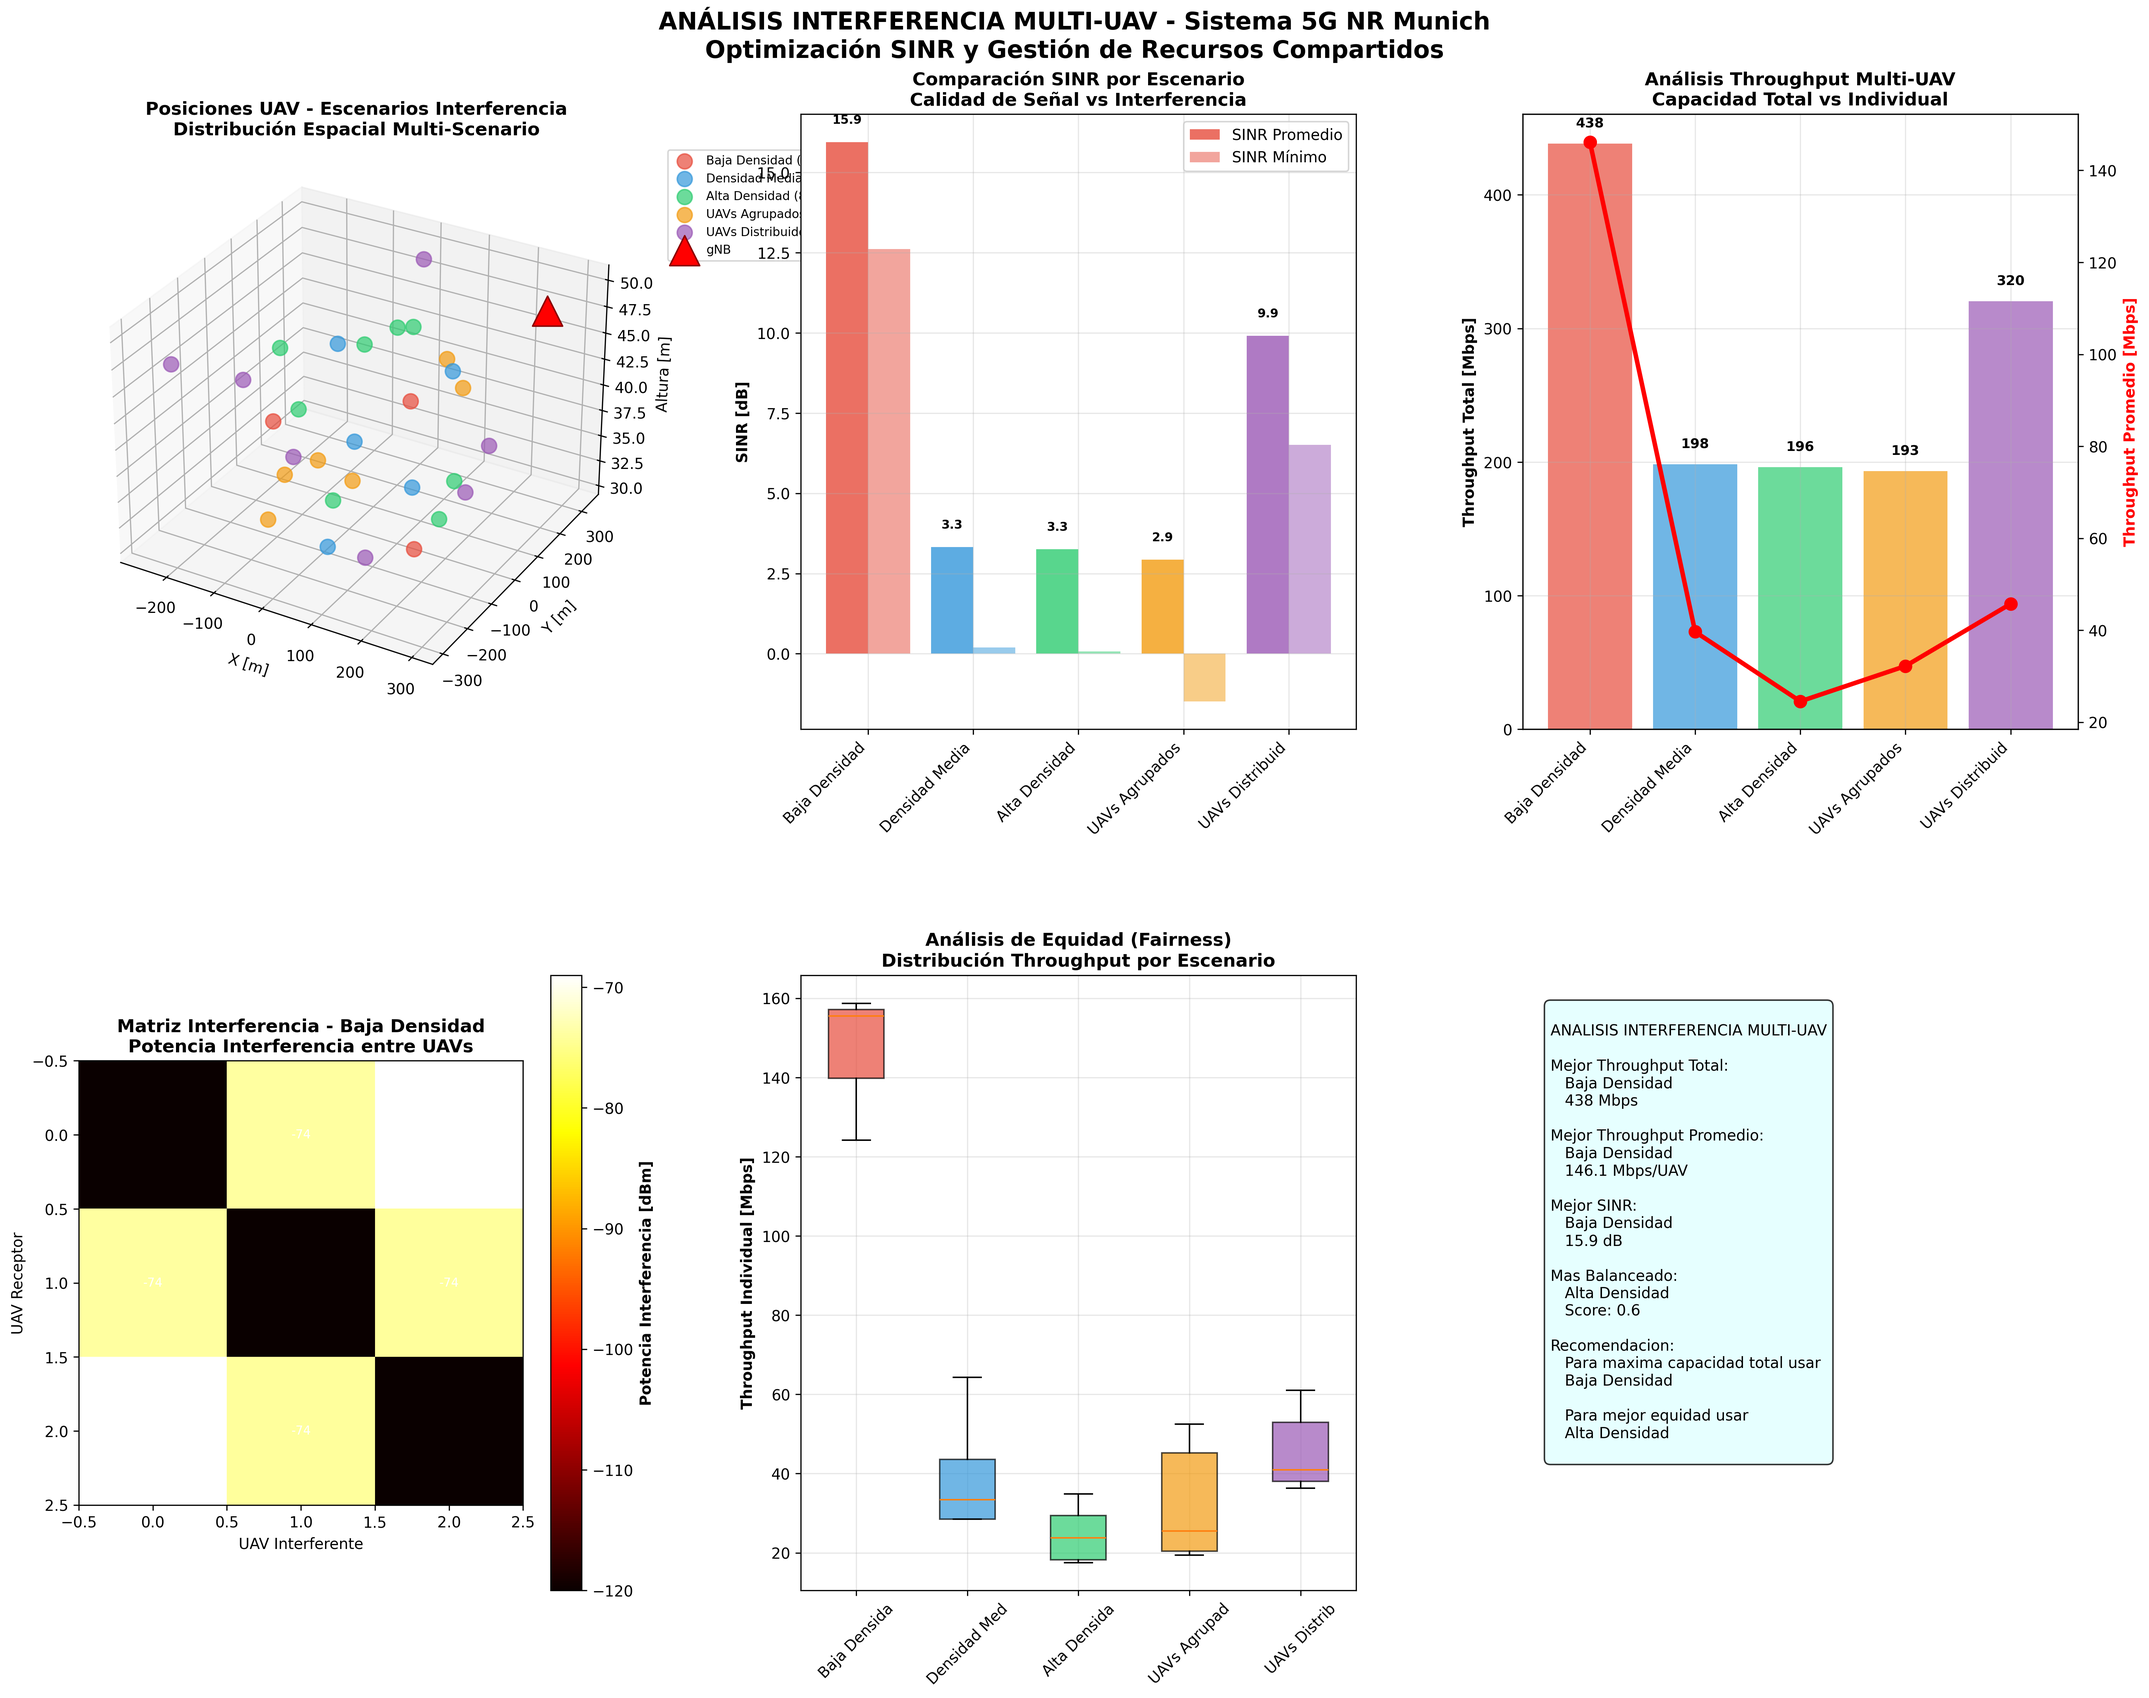
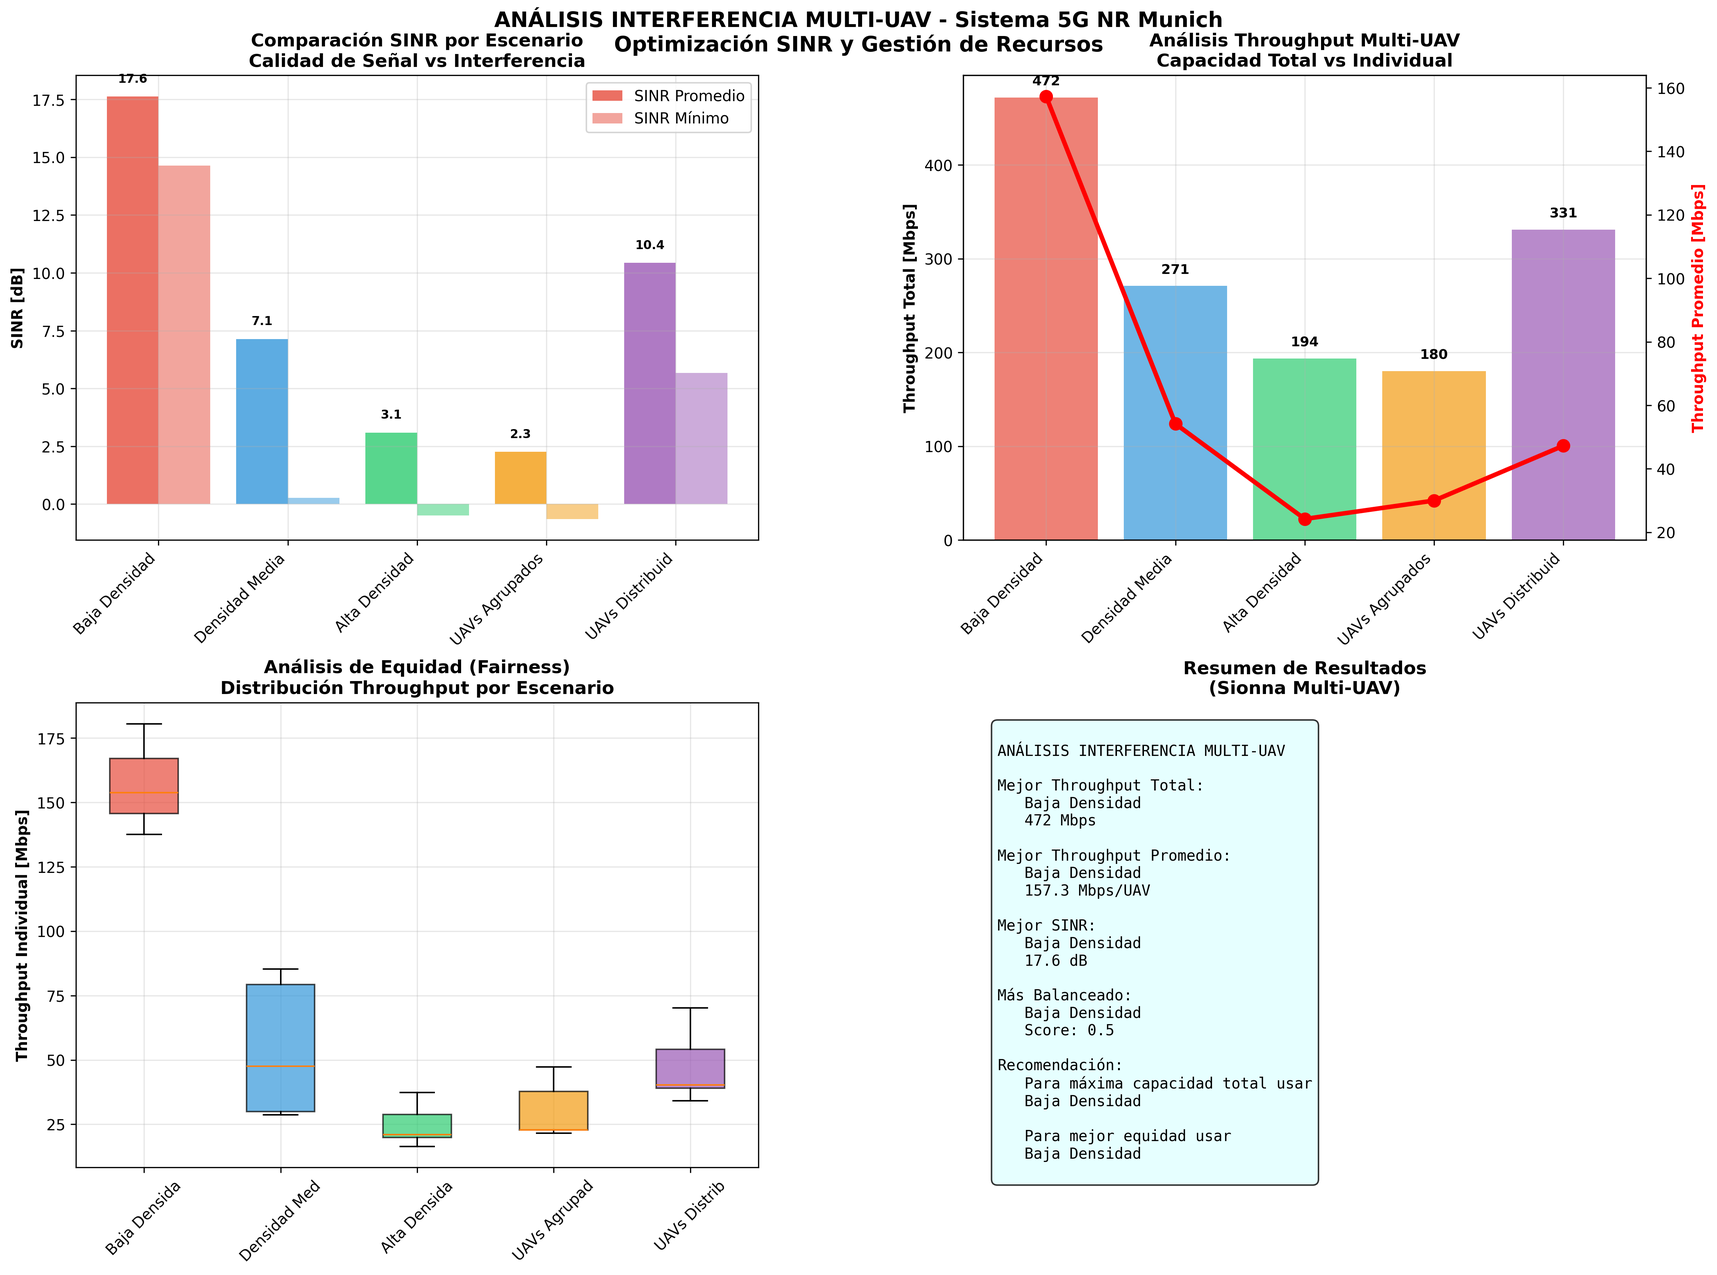
✅ Interferencia: Restaura gráfico 3D de posiciones UAV - 5 gráficos sin heatmap de matriz

diff --git a/final/GUI/analysis/interference_analysis_gui.py b/final/GUI/analysis/interference_analysis_gui.py
@@ -338,62 +338,86 @@ class InterferenceAnalysisGUI:
         if progress_callback:
             progress_callback("Generando gráficos de interferencia...")
         
-        # Create comprehensive interference analysis plot (2x2 layout, sin heatmap)
-        fig = plt.figure(figsize=(16, 12))
+        # Create comprehensive interference analysis plot (2x3 layout, sin heatmap)
+        fig = plt.figure(figsize=(18, 12))
         
         # Colors for scenarios
         colors = ['#E74C3C', '#3498DB', '#2ECC71', '#F39C12', '#9B59B6']
         
-        # 1. SINR Comparison
-        ax1 = fig.add_subplot(2, 2, 1)
+        # 1. UAV Positions for Different Scenarios (3D)
+        ax1 = fig.add_subplot(2, 3, 1, projection='3d')
+        
+        for i, (scenario_key, result) in enumerate(results.items()):
+            positions = result['results']['uav_positions']
+            color = colors[i % len(colors)]
+            
+            # Plot UAV positions
+            ax1.scatter(positions[:, 0], positions[:, 1], positions[:, 2],
+                       c=color, s=100, alpha=0.7, 
+                       label=f"{result['name']} ({len(positions)} UAVs)")
+        
+        # gNB position
+        gnb_pos = self.munich_config['gnb_position']
+        ax1.scatter(*gnb_pos, s=400, c='red', marker='^', 
+                   label='gNB', alpha=1.0, edgecolors='darkred')
+        
+        ax1.set_xlabel('X [m]')
+        ax1.set_ylabel('Y [m]')
+        ax1.set_zlabel('Altura [m]')
+        ax1.set_title('Posiciones UAV - Escenarios Interferencia\nDistribución Espacial Multi-Scenario', fontweight='bold')
+        ax1.legend(bbox_to_anchor=(1.05, 1), loc='upper left', fontsize=8)
+        ax1.grid(True, alpha=0.3)
+        
+        # 2. SINR Comparison
+        ax2 = fig.add_subplot(2, 3, 2)
         scenario_names = [result['name'][:15] for result in results.values()]
         avg_sinrs = [result['results']['avg_sinr_db'] for result in results.values()]
         min_sinrs = [result['results']['min_sinr_db'] for result in results.values()]
         
         x_pos = np.arange(len(scenario_names))
-        bars1 = ax1.bar(x_pos - 0.2, avg_sinrs, 0.4, label='SINR Promedio', 
+        bars1 = ax2.bar(x_pos - 0.2, avg_sinrs, 0.4, label='SINR Promedio', 
                        color=colors[:len(scenario_names)], alpha=0.8)
-        bars2 = ax1.bar(x_pos + 0.2, min_sinrs, 0.4, label='SINR Mínimo', 
+        bars2 = ax2.bar(x_pos + 0.2, min_sinrs, 0.4, label='SINR Mínimo', 
                        color=colors[:len(scenario_names)], alpha=0.5)
         
-        ax1.set_ylabel('SINR [dB]', fontweight='bold')
-        ax1.set_title('Comparación SINR por Escenario\nCalidad de Señal vs Interferencia', fontweight='bold')
-        ax1.set_xticks(x_pos)
-        ax1.set_xticklabels(scenario_names, rotation=45, ha='right')
-        ax1.legend()
-        ax1.grid(True, alpha=0.3)
-        
-        # Add value labels
-        for i, (bar1, bar2, avg_val, min_val) in enumerate(zip(bars1, bars2, avg_sinrs, min_sinrs)):
-            ax1.text(bar1.get_x() + bar1.get_width()/2., bar1.get_height() + 0.5,
-                    f'{avg_val:.1f}', ha='center', va='bottom', fontsize=8, fontweight='bold')
-        
-        # 2. Throughput Analysis
-        ax2 = fig.add_subplot(2, 2, 2)
-        total_throughputs = [result['results']['total_throughput'] for result in results.values()]
-        avg_throughputs = [result['results']['avg_throughput'] for result in results.values()]
-        
-        bars3 = ax2.bar(x_pos, total_throughputs, color=colors[:len(scenario_names)], alpha=0.7)
-        
-        # Secondary axis for average
-        ax2_twin = ax2.twinx()
-        line = ax2_twin.plot(x_pos, avg_throughputs, 'ro-', linewidth=3, markersize=8, 
-                            label='Throughput Promedio por UAV')
-        
-        ax2.set_ylabel('Throughput Total [Mbps]', fontweight='bold')
-        ax2_twin.set_ylabel('Throughput Promedio [Mbps]', fontweight='bold', color='red')
-        ax2.set_title('Análisis Throughput Multi-UAV\nCapacidad Total vs Individual', fontweight='bold')
+        ax2.set_ylabel('SINR [dB]', fontweight='bold')
+        ax2.set_title('Comparación SINR por Escenario\nCalidad de Señal vs Interferencia', fontweight='bold')
         ax2.set_xticks(x_pos)
         ax2.set_xticklabels(scenario_names, rotation=45, ha='right')
+        ax2.legend()
         ax2.grid(True, alpha=0.3)
         
         # Add value labels
+        for i, (bar1, bar2, avg_val, min_val) in enumerate(zip(bars1, bars2, avg_sinrs, min_sinrs)):
+            ax2.text(bar1.get_x() + bar1.get_width()/2., bar1.get_height() + 0.5,
+                    f'{avg_val:.1f}', ha='center', va='bottom', fontsize=8, fontweight='bold')
+        
+        # 3. Throughput Analysis
+        ax3 = fig.add_subplot(2, 3, 3)
+        total_throughputs = [result['results']['total_throughput'] for result in results.values()]
+        avg_throughputs = [result['results']['avg_throughput'] for result in results.values()]
+        
+        bars3 = ax3.bar(x_pos, total_throughputs, color=colors[:len(scenario_names)], alpha=0.7)
+        
+        # Secondary axis for average
+        ax3_twin = ax3.twinx()
+        line = ax3_twin.plot(x_pos, avg_throughputs, 'ro-', linewidth=3, markersize=8, 
+                            label='Throughput Promedio por UAV')
+        
+        ax3.set_ylabel('Throughput Total [Mbps]', fontweight='bold')
+        ax3_twin.set_ylabel('Throughput Promedio [Mbps]', fontweight='bold', color='red')
+        ax3.set_title('Análisis Throughput Multi-UAV\nCapacidad Total vs Individual', fontweight='bold')
+        ax3.set_xticks(x_pos)
+        ax3.set_xticklabels(scenario_names, rotation=45, ha='right')
+        ax3.grid(True, alpha=0.3)
+        
+        # Add value labels
         for i, (bar, total_val, avg_val) in enumerate(zip(bars3, total_throughputs, avg_throughputs)):
-            ax2.text(bar.get_x() + bar.get_width()/2., bar.get_height() + 10,
+            ax3.text(bar.get_x() + bar.get_width()/2., bar.get_height() + 10,
                     f'{total_val:.0f}', ha='center', va='bottom', fontsize=9, fontweight='bold')
         
-        # 3. Throughput Fairness Analysis
-        ax3 = fig.add_subplot(2, 2, 3)
+        # 4. Throughput Fairness Analysis
+        ax4 = fig.add_subplot(2, 3, 4)
         
         fairness_data = []
         scenario_labels = []
@@ -404,21 +428,21 @@ class InterferenceAnalysisGUI:
             scenario_labels.append(result['name'][:12])
         
         # Box plot for fairness
-        bp = ax3.boxplot(fairness_data, labels=scenario_labels, patch_artist=True)
+        bp = ax4.boxplot(fairness_data, labels=scenario_labels, patch_artist=True)
         
         # Color the boxes
         for patch, color in zip(bp['boxes'], colors[:len(scenario_labels)]):
             patch.set_facecolor(color)
             patch.set_alpha(0.7)
         
-        ax3.set_ylabel('Throughput Individual [Mbps]', fontweight='bold')
-        ax3.set_title('Análisis de Equidad (Fairness)\nDistribución Throughput por Escenario', fontweight='bold')
-        ax3.tick_params(axis='x', rotation=45)
-        ax3.grid(True, alpha=0.3)
+        ax4.set_ylabel('Throughput Individual [Mbps]', fontweight='bold')
+        ax4.set_title('Análisis de Equidad (Fairness)\nDistribución Throughput por Escenario', fontweight='bold')
+        ax4.tick_params(axis='x', rotation=45)
+        ax4.grid(True, alpha=0.3)
         
-        # 4. Summary and Recommendations
-        ax4 = fig.add_subplot(2, 2, 4)
-        ax4.axis('off')
+        # 5. Summary and Recommendations
+        ax5 = fig.add_subplot(2, 3, 5)
+        ax5.axis('off')
         
         # Summary statistics
         best_total = comparison['best_total_throughput']
@@ -453,11 +477,11 @@ Recomendación:
    {results[most_balanced['scenario']]['name']}
         """
         
-        ax4.text(0.05, 0.95, summary_text, transform=ax4.transAxes, fontsize=10,
+        ax5.text(0.05, 0.95, summary_text, transform=ax5.transAxes, fontsize=10,
                 verticalalignment='top', fontfamily='monospace',
                 bbox=dict(boxstyle="round,pad=0.4", 
                 facecolor='lightcyan', alpha=0.8))
-        ax4.set_title('Resumen de Resultados\n(Sionna Multi-UAV)', fontweight='bold')
+        ax5.set_title('Resumen de Resultados\n(Sionna Multi-UAV)', fontweight='bold')
         
         # Main title
         fig.suptitle('ANÁLISIS INTERFERENCIA MULTI-UAV - Sistema 5G NR Munich\nOptimización SINR y Gestión de Recursos', 
